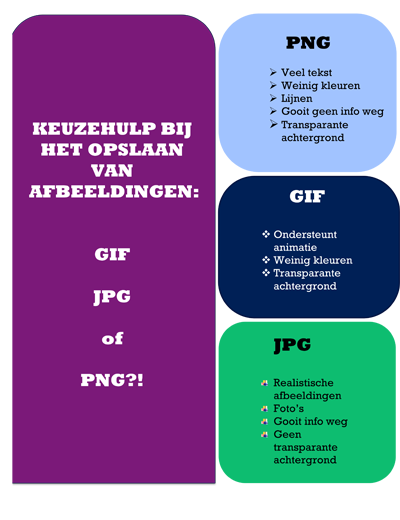
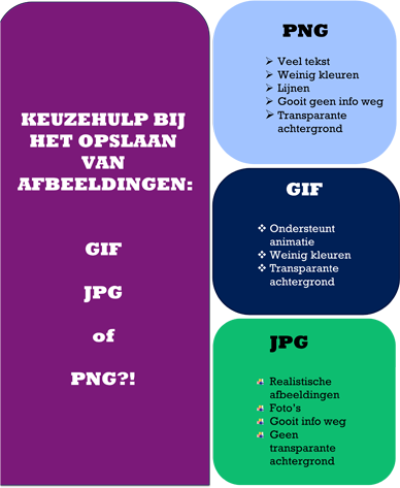
afbeelding aan tekst toegevoegd

diff --git a/_posts/2014-08-08-7-valkuilen-bij-het-gebruik-van-afbeeldingen-op-je-website.md b/_posts/2014-08-08-7-valkuilen-bij-het-gebruik-van-afbeeldingen-op-je-website.md
@@ -46,21 +46,29 @@ Een mooi voorbeeld van een thumbnail in actie, zie je in mijn blogpost
 geven”</a>.
 
 
+##Valkuil 2: verkeerd gebruik van JPG, PNG en GIF
+Bij het opslaan van afbeeldingen heb je de keuze uit drie
+mogelijkheden: GIF, JPG en PNG.Hier gaat het vaak mis, want wanneer
+kies je nou welk bestandstype? Ik adviseer het volgende:
+
+**JPG**  
+Gebruik dit type voor foto’s en realistische afbeeldingen. Nadeel van
+dit bestandstype is dat het informatie weggooit bij hoge compressie.
+
 <figure class="floatright">
   <img src="/images/keuzehulp-afbeeldingen-bestandstype.png"
   alt="Keuzehulp bij het opslaan van afbeeldingen">
+  <figcaption>Wanneer gebruik je welk bestandstype?</figcaption>
 </figure>
-
-##Valkuil 2: verkeerd gebruik van JPG, PNG en GIF
-Bij het opslaan van afbeeldingen heb je de keuze uit drie mogelijkheden: GIF, JPG en PNG.Hier gaat het vaak mis, want wanneer kies je nou welk bestandstype? Ik adviseer het volgende: 
-
-**JPG**  
-Gebruik dit type voor foto’s en realistische afbeeldingen. Nadeel van dit bestandstype is dat het informatie weggooit bij hoge compressie. Daarnaast kun je een afbeelding of achtergrond van een JPG niet transparant maken. Dat kan alleen als je de afbeelding eerst opslaat als een bestand dat dit wel kan, zoals PNG.
+Daarnaast kun je een afbeelding of achtergrond van een JPG niet transparant maken. Dat kan alleen als je de afbeelding eerst opslaat als een bestand dat dit wel kan, zoals PNG.
 
 **PNG**  
-Gebruik dit type voor afbeeldingen met lijnen, veel tekst en weinig
-kleuren. In tegenstelling tot JPG gooit PNG geen informatie weg en
-ondersteunt het transparantie. Zo kun je de achtergrond of afbeelding
+Gebruik dit type voor afbeeldingen met lijnen,  
+veel tekst en weinig
+kleuren.  
+In tegenstelling tot JPG gooit PNG geen informatie weg en
+ondersteunt het transparantie.  
+Zo kun je de achtergrond of afbeelding
 wel transparant maken en de afbeelding dus ook laten overlappen met
 andere afbeeldingen.
 
